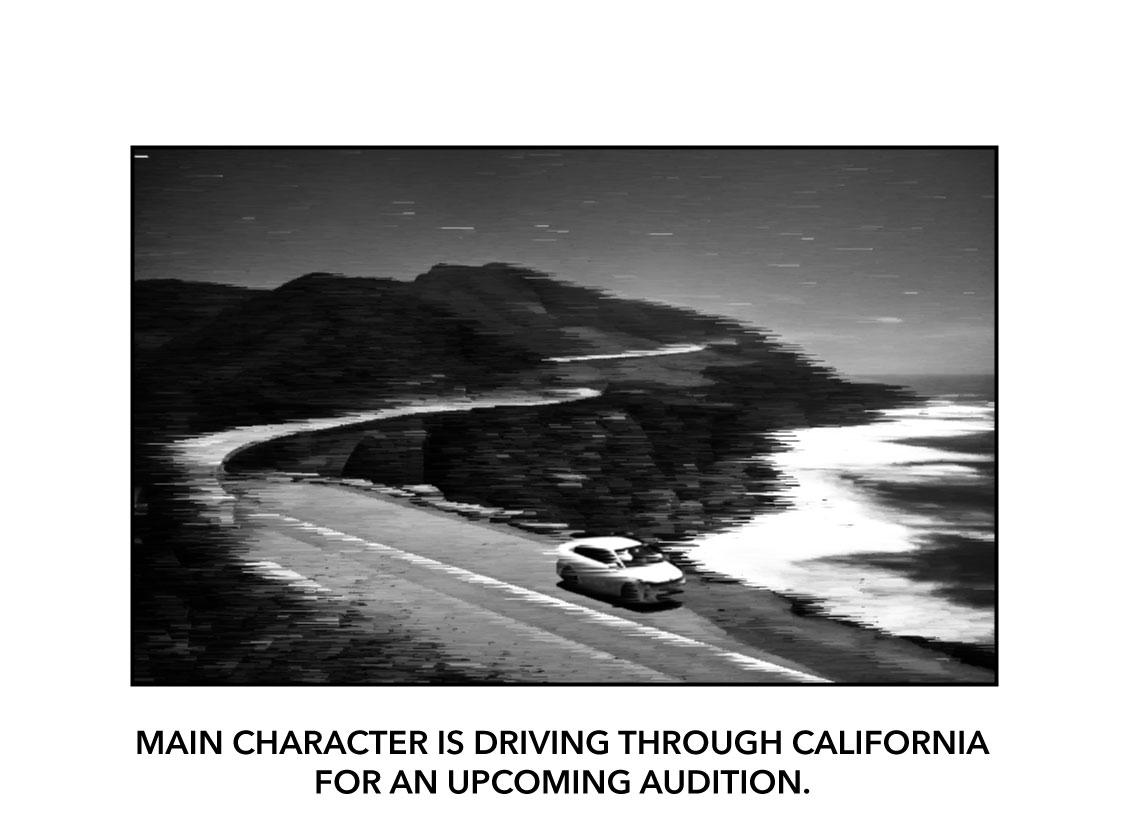
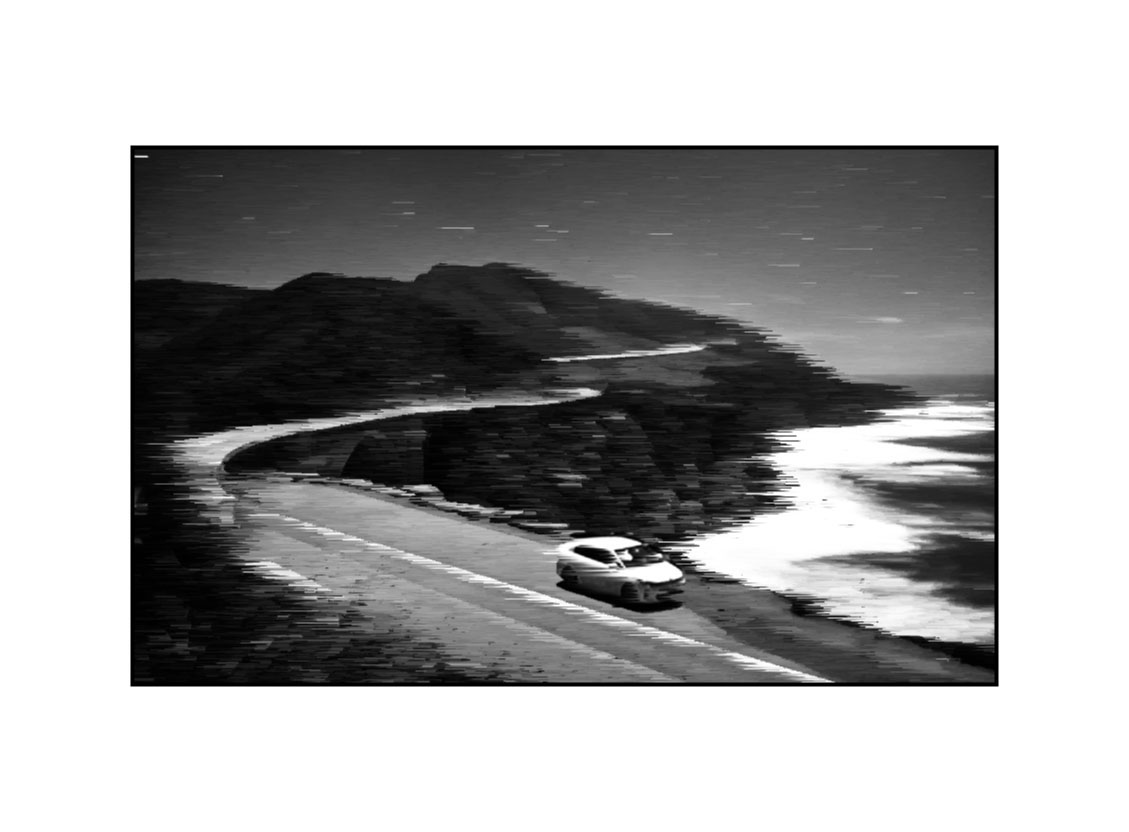
Add player name prompt, include story text in HTML, edit images

Changed region(s): [[0.124, 0.875, 0.899, 0.9688]]

diff --git a/index.html b/index.html
@@ -4,7 +4,7 @@
     <meta charset="UTF-8" />
     <meta http-equiv="X-UA-Compatible" content="IE=edge" />
     <meta name="viewport" content="width=device-width, initial-scale=1.0" />
-    <title>Prototype</title>
+    <title>Interactive Narrative Prototype</title>
     <link rel="stylesheet" href="style.css" />
   </head>
   <body>
@@ -12,58 +12,59 @@
 
     <template id="intro">
       <img src="img/intro.png" />
-
+      <p class="storytext">This is a story about <span class="name"></span>, as aspiring young actor. One sunny afternoon they were driving through California for an upcoming audition.</p>
       <button data-link="intro2">Next</button>
     </template>
 
     <template id="intro2">
       <img src="img/intro2.png" />
-
+      <p class="storytext"><span class="name"></span> decides to pull over and stay in a brightly-lit hotel.</p>
       <button data-link="intro3">Next</button>
     </template>
 
     <template id="intro3">
       <img src="img/intro3.png" />
-
+      <p class="storytext"><span class="name"></span> enters lobby and is greeted by a friendly bellhop holding a candle.</p>
       <button data-link="courtyard">Go to courtyard</button>
       <button data-link="gotoroom">Go to room</button>
     </template>
-
+    
     <template id="courtyard">
       <img src="img/courtyard.png" />
-
+      <p class="storytext"><span class="name"></span> sees dancing by the courtyard pool and talks to some of the fellow guests.</p>
       <button data-link="pinkchampagne">Explore the hotel</button>
       <button data-link="gotoroom">Go back to room</button>
     </template>
 
     <template id="gotoroom">
       <img src="img/gotoroom.png" />
-
+      <p class="storytext">After returning to room, <span class="name"></span> is woken up by noise and heads out to investigate.</p>
       <button data-link="feast1">Investigate noise</button>
     </template>
 
     <template id="pinkchampagne">
       <img src="img/pinkchampagne.png" />
-
+      <p class="storytext"><span class="name"></span> meets the concierge again and is offered pink champagne.</p>
       <button data-link="gotoroom">Go to room</button>
     </template>
 
     <template id="feast1">
       <img src="img/feast1.png" />
-
+      <p class="storytext"><span class="name"></span> enters the big dining hall and sees people dig into a fabulously-cooked bird.</p>
       <button data-link="feast2">Next</button>
     </template>
 
     <template id="feast2">
       <img src="img/feast2.png" />
-
+      <p class="storytext">But the food was an illusion and was in actuality a rotting carcass. <span class="name"></span> is horrified.</p>
       <button data-link="runaway">Run</button>
     </template>
 
     <template id="runaway">
       <img src="img/runaway.png" />
-
-      You must escape the hotel. Where will you run?
+      <p class="storytext"><span class="name"></span> runs from the crazy party of delight. (Depending on narrative options, story ends or loops.)</p>
+      
+      <p class="storytext">You must escape the hotel. Where will you run?</p>
 
       <button data-link="room1">Up</button>
       <button data-link="room2">Down</button>
@@ -74,9 +75,9 @@
     <template id="room1">
       <img src="https://www.placecage.com/700/500" />
 
-      <p>Room One</p>
+      <p class="storytext">Room One</p>
       
-      You must escape the hotel. Where will you run?
+      <p class="storytext"><span class="name"></span> must escape the hotel. Where will you run?</p>
       
       <button data-link="room5">Up</button>
       <button data-link="room2">Down</button>
@@ -87,9 +88,9 @@
     <template id="room2">
       <img src="https://www.placecage.com/600/500" />
       
-      <p>Room Two</p>
+      <p class="storytext">Room Two</p>
       
-      You must escape the hotel. Where will you run?
+      <p class="storytext"><span class="name"></span> must escape the hotel. Where will you run?</p>
       
       <button data-link="room1">Up</button>
       <button data-link="room5">Down</button>
@@ -100,9 +101,9 @@
     <template id="room3">
       <img src="https://www.placecage.com/800/400" />
       
-      <p>Room Three</p>
+      <p class="storytext">Room Three</p>
       
-      You must escape the hotel. Where will you run?
+      <p class="storytext"><span class="name"></span> must escape the hotel. Where will you run?</p>
       
       <button data-link="room1">Up</button>
       <button data-link="room2">Down</button>
@@ -113,9 +114,9 @@
     <template id="room4">
       <img src="https://www.placecage.com/700/450" />
       
-      <p>Room Four</p>
+      <p class="storytext">Room Four</p>
 
-      You must escape the hotel. Where will you run?
+      <p class="storytext"><span class="name"></span> must escape the hotel. Where will you run?</p>
     
       <button data-link="room1">Up</button>
       <button data-link="room2">Down</button>
@@ -126,9 +127,9 @@
     <template id="room5">
       <img src="https://www.placecage.com/650/500" />
 
-      <p>Room Five</p>
+      <p class="storytext">Room Five</p>
 
-      You must escape the hotel. Where will you run?
+      <p class="storytext"><span class="name"></span> must escape the hotel. Where will you run?</p>
     
       <button data-link="room4">Up</button>
       <button data-link="room3">Down</button>

diff --git a/main.js b/main.js
@@ -1,3 +1,6 @@
+// register the user's name
+const userName = prompt("Greetings stranger! What is your name?", "Nicholas Cage");
+
 (function () {
   // just a shorthand for queries
   const $ = document.querySelector.bind(document);
@@ -23,5 +26,6 @@
 
     // add content from new page template
     contentWrapper.append($(`template#${templateId}`).content.cloneNode(true));
+    document.querySelector(".name").innerHTML = userName;
   }
 })();

diff --git a/style.css b/style.css
@@ -29,3 +29,8 @@ button {
   cursor: pointer;
   text-transform: uppercase;
 }
+
+.storytext {
+  font-size: larger;
+  font-family: fantasy;
+}
